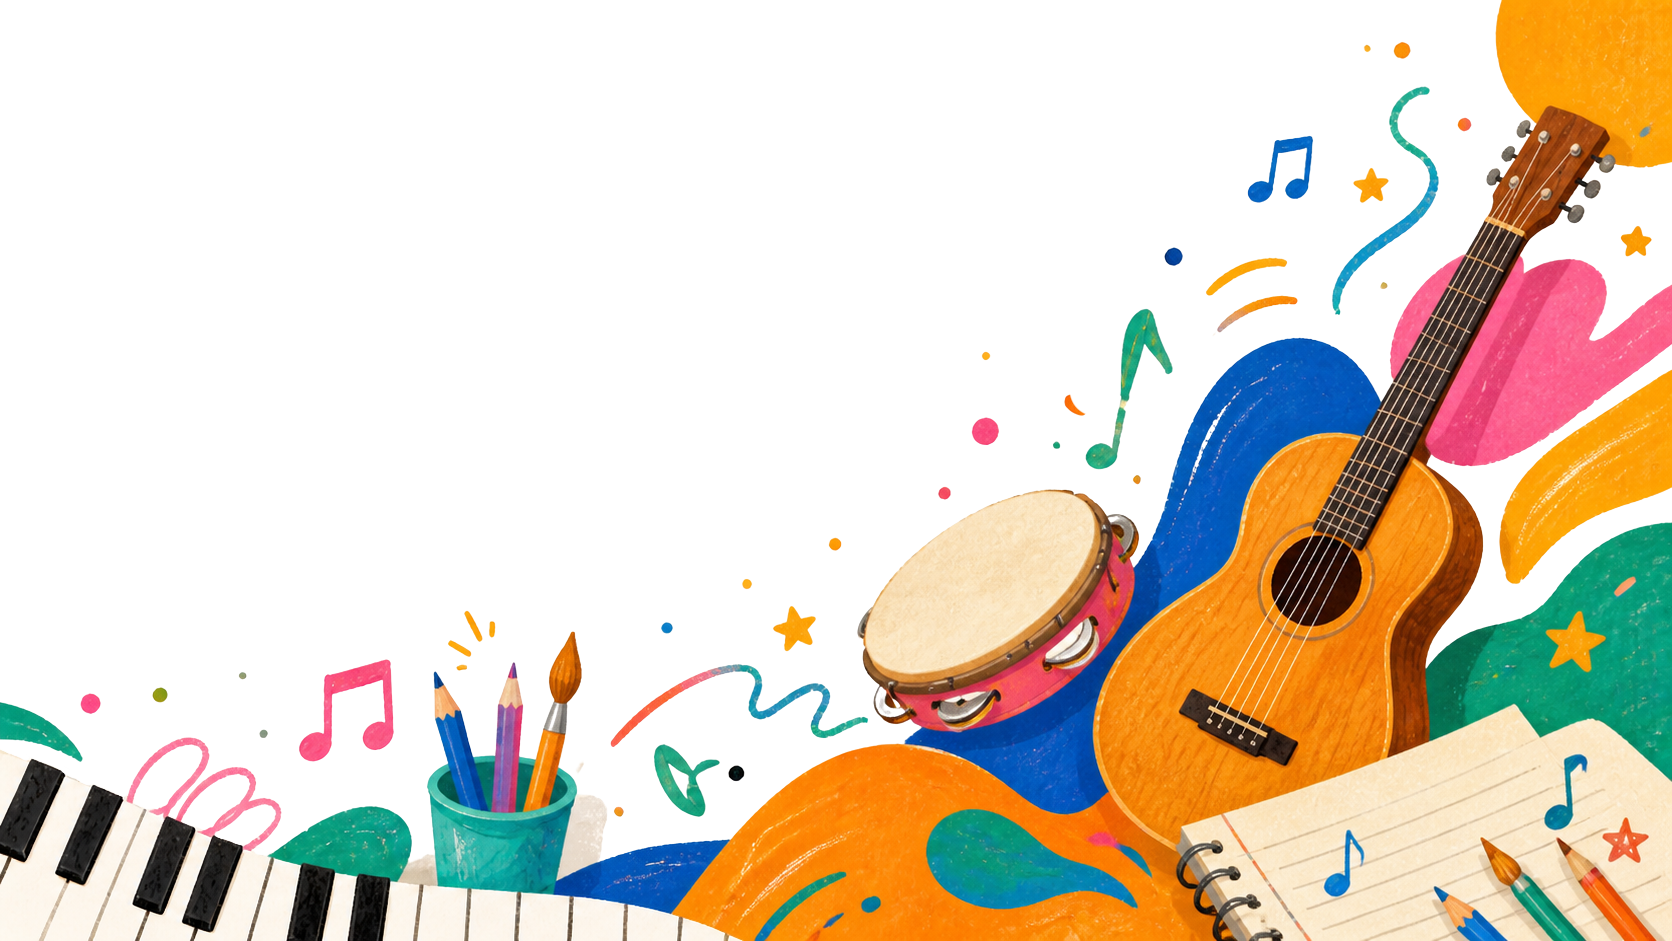
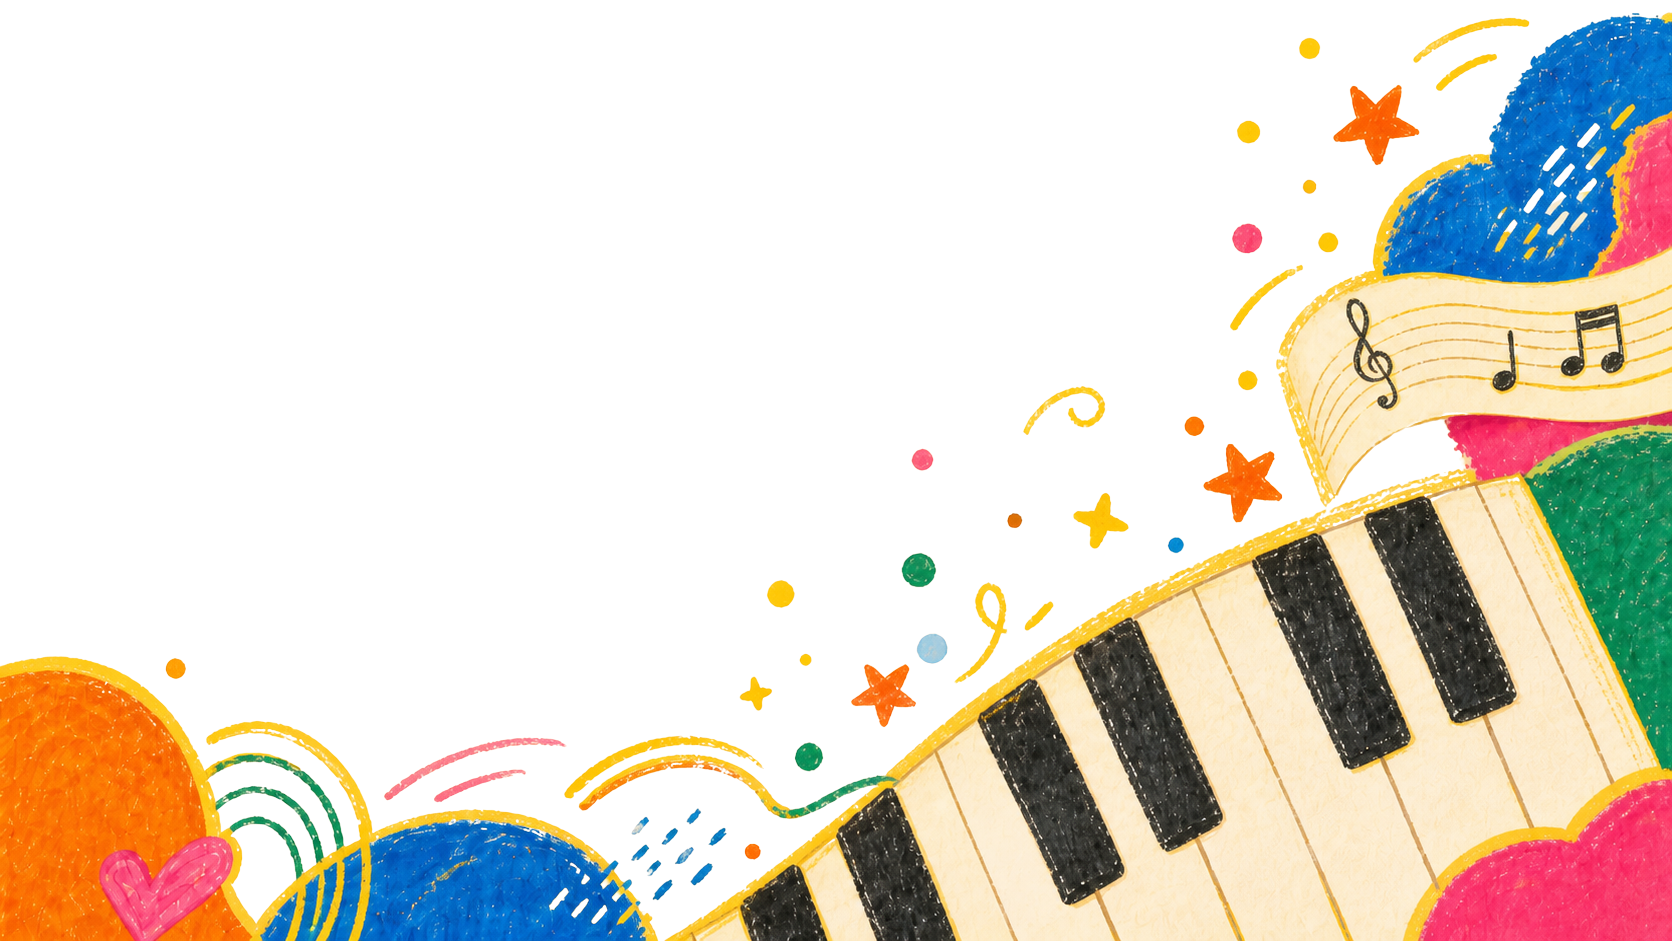
Update hero background SVG, add teacher photos and real bios

diff --git a/src/components/VocesStrip.tsx b/src/components/VocesStrip.tsx
@@ -1,9 +1,52 @@
+import Image from "next/image";
+
+const ICONS = [
+  "/voces-icon-1.png",
+  "/voces-icon-2.png",
+  "/voces-icon-3.png",
+  "/voces-icon-4.png",
+];
+
+const WORDS = [
+  "Mejores profesores",
+  "Remoto y presencial",
+  "Piano",
+  "Guitarra",
+  "Violín",
+  "Canto",
+  "Flauta",
+  "Batería",
+  "✦ Inscripciones abiertas ✦",
+];
+
+function Row({ prefix }: { prefix: string }) {
+  const nodes: React.ReactNode[] = [];
+  WORDS.forEach((word, i) => {
+    if (i > 0) {
+      nodes.push(
+        <Image
+          className="voces-icon"
+          src={ICONS[(i - 1) % ICONS.length]}
+          alt=""
+          width={40}
+          height={40}
+          key={`${prefix}-icon-${i}`}
+        />
+      );
+    }
+    nodes.push(
+      <span key={`${prefix}-word-${i}`}>{word}</span>
+    );
+  });
+  return <>{nodes}</>;
+}
+
 export function VocesStrip() {
   return (
-    <div className="voces-strip">
-      <p className="voces-message">
-        Encontramos al profe ideal para el instrumento que quieres tocar
-      </p>
+    <div className="voces-strip" aria-hidden="true">
+      <div className="voces-track">
+        <Row prefix="a" /><Row prefix="b" />
+      </div>
     </div>
   );
 }

diff --git a/src/app/globals.css b/src/app/globals.css
@@ -25,7 +25,7 @@
   --font-hand-2: "Patrick Hand", cursive;
   --font-mono: ui-monospace, "SF Mono", Menlo, monospace;
 
-  --base-size: 16px;
+  --base-size: 20px;
 }
 
 [data-theme="dark"] {
@@ -238,7 +238,8 @@ p { margin: 0 0 1em 0; }
   min-height: calc(100vh - 58px);
   display: flex;
   flex-direction: column;
-  justify-content: center;
+  justify-content: flex-start;
+  padding-top: 11vh;
   padding-bottom: 0;
   background-color: var(--bg);
 }
@@ -248,7 +249,7 @@ p { margin: 0 0 1em 0; }
   inset: 0;
   z-index: 1;
   background: var(--bg);
-  opacity: 0.7;
+  opacity: 0.2;
 }
 .hero-grid {
   display: grid;
@@ -753,17 +754,36 @@ footer .foot-logo { font-family: var(--font-display); font-size: 1.4rem; margin-
 .voces-strip {
   position: relative;
   z-index: 2;
-  padding: 20px 0;
-  background: var(--bg);
-  border-top: 2px dashed var(--line);
-  border-bottom: 2px dashed var(--line);
-  text-align: center;
+  overflow: hidden;
+  padding: 16px 0;
+  background: var(--ink);
+  color: var(--bg);
+  border-top: 2.5px solid var(--line);
+  border-bottom: 2.5px solid var(--line);
 }
-.voces-message {
-  font-family: var(--font-hand);
-  font-size: clamp(1.4rem, 3vw, 2rem);
-  font-weight: 700;
-  color: var(--ink);
-  margin: 0;
-  line-height: 1.3;
+.voces-track {
+  display: inline-flex;
+  align-items: center;
+  gap: 24px;
+  white-space: nowrap;
+  animation: voces-marquee 28s linear infinite;
+  font-family: var(--font-display);
+  font-size: clamp(1.2rem, 2.5vw, 1.6rem);
+  font-weight: 400;
+  padding-left: 36px;
+}
+.voces-icon {
+  width: 56px;
+  height: 56px;
+  flex-shrink: 0;
+  object-fit: contain;
+  margin-top: -8px;
+  margin-bottom: -8px;
+}
+@keyframes voces-marquee {
+  from { transform: translateX(0); }
+  to { transform: translateX(-50%); }
+}
+@media (max-width: 768px) {
+  .voces-track { font-size: 1.2rem; gap: 24px; padding-left: 24px; }
 }

diff --git a/src/components/ProfesSection.tsx b/src/components/ProfesSection.tsx
@@ -14,10 +14,11 @@ function SectionHeader({ eyebrow, title, sub, titleColors }: { eyebrow?: string;
 }
 
 const TEACHERS = [
-  { name: "Profe 01", role: "Piano y Canto", color: "var(--orange)", bio: "Pianista y cantante con experiencia en formación musical infantil y de adultos." },
-  { name: "Profe 02", role: "Violín y Cuerdas", color: "var(--pink)", bio: "Violinista de orquesta. Ama enseñar técnica con paciencia y mucho juego." },
-  { name: "Profe 03", role: "Guitarra", color: "var(--blue)", bio: "Guitarrista versátil. Te enseña tus canciones favoritas mientras aprendes lo importante." },
-  { name: "Profe 04", role: "Arte", color: "var(--green)", bio: "Artista visual. Cree que todos podemos dibujar — solo hay que perderle el miedo al papel en blanco." },
+  { name: "Sergio Ramírez", role: "Piano y Canto", color: "var(--orange)", bio: "Soy profe de los datos curiosos y los ejemplos aún más curiosos, busco la mejor manera de enseñarte desde tus gustos e intereses. Me llamo Sergio y aprenderás música de maneras que no te imaginas.", photo: "/profes/sergio-ramirez.svg" },
+  { name: "Sara Alfonso", role: "Piano", color: "var(--pink)", bio: "Soy Sara, pianista que no tiene tan buenos chistes, pero aprendemos divirtiéndonos. \"Music is medicine\"", photo: "/profes/sara-alfonso.svg" },
+  { name: "Valentina Fernández", role: "Violín y Cuerdas", color: "var(--blue)", bio: "Soy Valentina, la violinista del color y con nuestros violines pintaremos de sonido nuestro corazón. Aquí todo se vale, el error, las risas, los chistes, pues una sonrisa dibujada es lo más bello de la educación.", photo: "/profes/valentina-fernandez.svg" },
+  { name: "Gisselle Torres", role: "Flauta", color: "var(--green)", bio: "Tu profe de flauta que no omite lo gracioso que es equivocarse en clases. Soy Gisselle, ¡si no te ríes pierdes!", photo: "/profes/gisselle-torres.svg" },
+  { name: "Daniela Cárdenas", role: "Iniciación Musical", color: "var(--purple)", bio: "Soy la profe de los mil recursos: convierto colores, burbujas, pañuelos y cuentos en experiencias donde la música se vive antes de aprenderse.", photo: "/profes/daniela-cardenas.svg" },
 ];
 
 export function ProfesSection() {
@@ -35,8 +36,7 @@ export function ProfesSection() {
             <div className="teacher-card" key={i}>
               <div className="teacher-photo">
                 <div className="bg" style={{ background: t.color, opacity: 0.55 }}></div>
-                <div className="stripes"></div>
-                <div className="label">foto del profe — {t.role.toLowerCase()}</div>
+                <img src={t.photo} alt={t.name} style={{ position: "absolute", inset: 0, width: "100%", height: "100%", objectFit: "cover", borderRadius: "inherit", zIndex: 1 }} />
               </div>
               <h3 style={{ color: t.color }}>{t.name}</h3>
               <div className="role">{t.role}</div>
@@ -44,9 +44,7 @@ export function ProfesSection() {
             </div>
           ))}
         </div>
-        <p style={{ textAlign: "center", marginTop: 32, fontFamily: "var(--font-hand)", fontSize: "1.3rem", color: "var(--ink-soft)" }}>
-          ✶ Pronto agregamos a todo el equipo ✶
-        </p>
+
       </div>
     </section>
   );

diff --git a/src/components/Hero.tsx b/src/components/Hero.tsx
@@ -9,7 +9,7 @@ export function Hero() {
   return (
     <section className="hero hero-with-bg" data-screen-label="Hero">
       <Image
-            src="/hero-bg.png"
+            src="/hero-bg.svg"
         alt=""
         fill
         sizes="100vw"
@@ -31,15 +31,7 @@ export function Hero() {
             En <strong>A ½ tono</strong> aprendes música y arte en grupos pequeños,
             con profes que te acompañan a tu ritmo. Para todas las edades.
           </p>
-          <div className="hero-ctas">
-            <a className="btn btn-wa" href={WA_URL} target="_blank" rel="noopener">
-              <svg width="18" height="18" viewBox="0 0 24 24" fill="currentColor"><path d="M20.5 3.5A11.9 11.9 0 0 0 12 0C5.4 0 .15 5.3.15 11.9c0 2.1.55 4.1 1.6 5.9L.05 24l6.3-1.7a11.9 11.9 0 0 0 5.65 1.4c6.55 0 11.9-5.3 11.9-11.9 0-3.2-1.25-6.2-3.4-8.3Z"/></svg>
-              Escríbenos
-            </a>
-            <a className="btn btn-yellow" href="#cursos">
-              Ver cursos →
-            </a>
-          </div>
+
         </div>
       </div>
     </section>